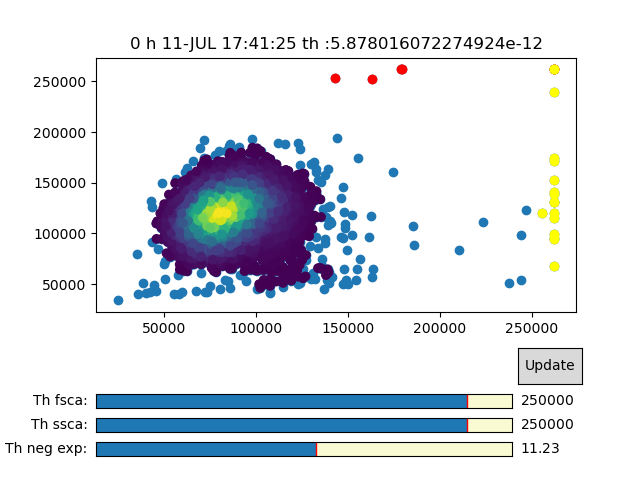
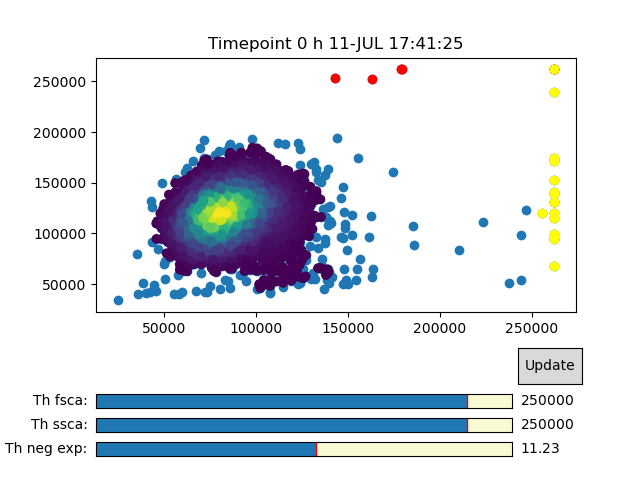
added preproc picture to readme

Changed region(s): [[0.1875, 0.0625, 0.8438, 0.125]]

diff --git a/fcMGM.py b/fcMGM.py
@@ -788,7 +788,7 @@ def doPreproc(datafile,sufx,aqName2,path):
         ax.scatter(ssca[valK>th],fsca[valK>th],c=valK[valK>th])
         ax.scatter(ssca[gate1],fsca[gate1],c='red')
         ax.scatter(ssca[gate2],fsca[gate2],c='yellow')
-        ax.set_title(str(k)+' h '+meta['EXPORT TIME'][:6]+' '+meta['$ETIM']+' th :'+str(th))
+        ax.set_title('Timepoint '+str(k)+' h '+meta['EXPORT TIME'][:6]+' '+meta['$ETIM'])
         dataPars[k]['date'] = meta['EXPORT TIME'][:6]
         dataPars[k]['time'] = meta['$ETIM']
 

diff --git a/README.md b/README.md
@@ -21,7 +21,7 @@ python runFcMGM.py --preprocessing --dim 2 -i PKH-CTV
 ```
 The flag `--dim` set the number of dimation which can be 1 to 3.
 The `--preprocessing` flag allows to set the threshod for forward scattering (FSC-A) and
-side scattering (SSCA). It also allows to treshold outliers using the estimate of the density function of the scatter plot computed using a gaussina kernel.
+side scattering (SSCA). It also allows to treshold outliers using the estimate of the density function of the scatter plot computed using a gaussin kernel.
 
 ![plot](./preproc.png)
 
